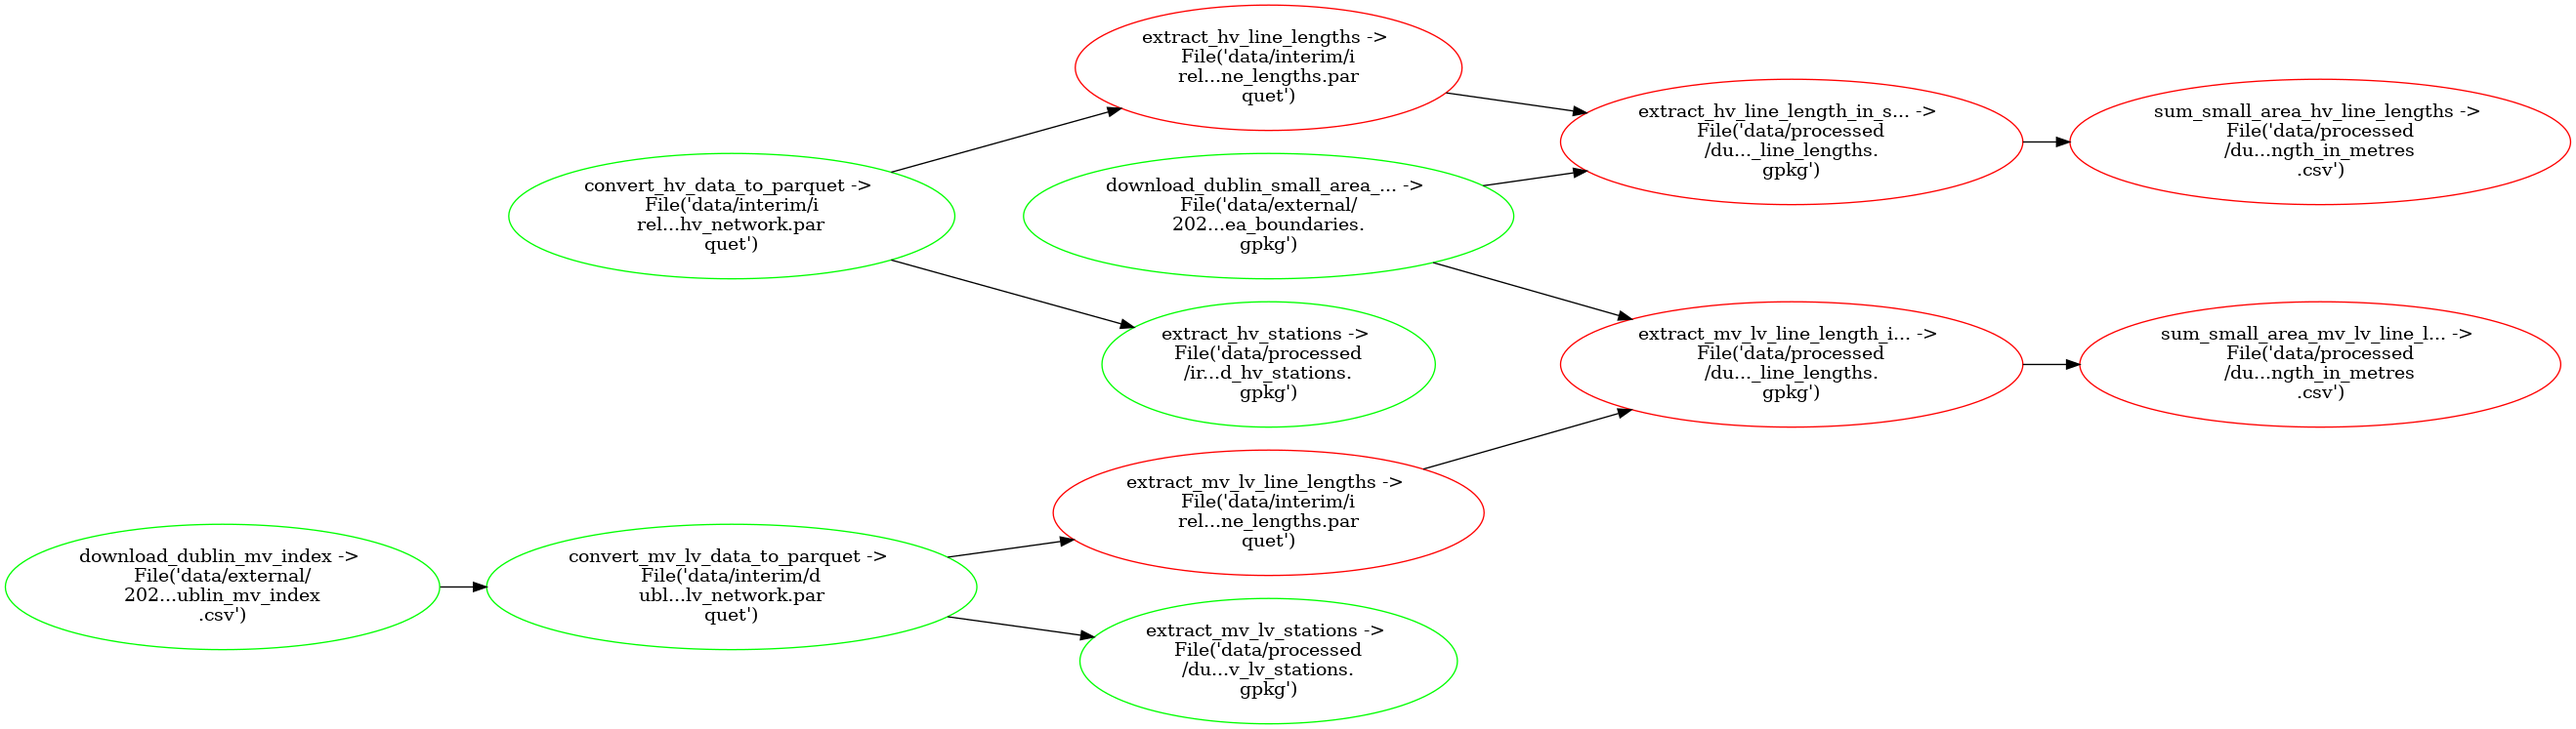
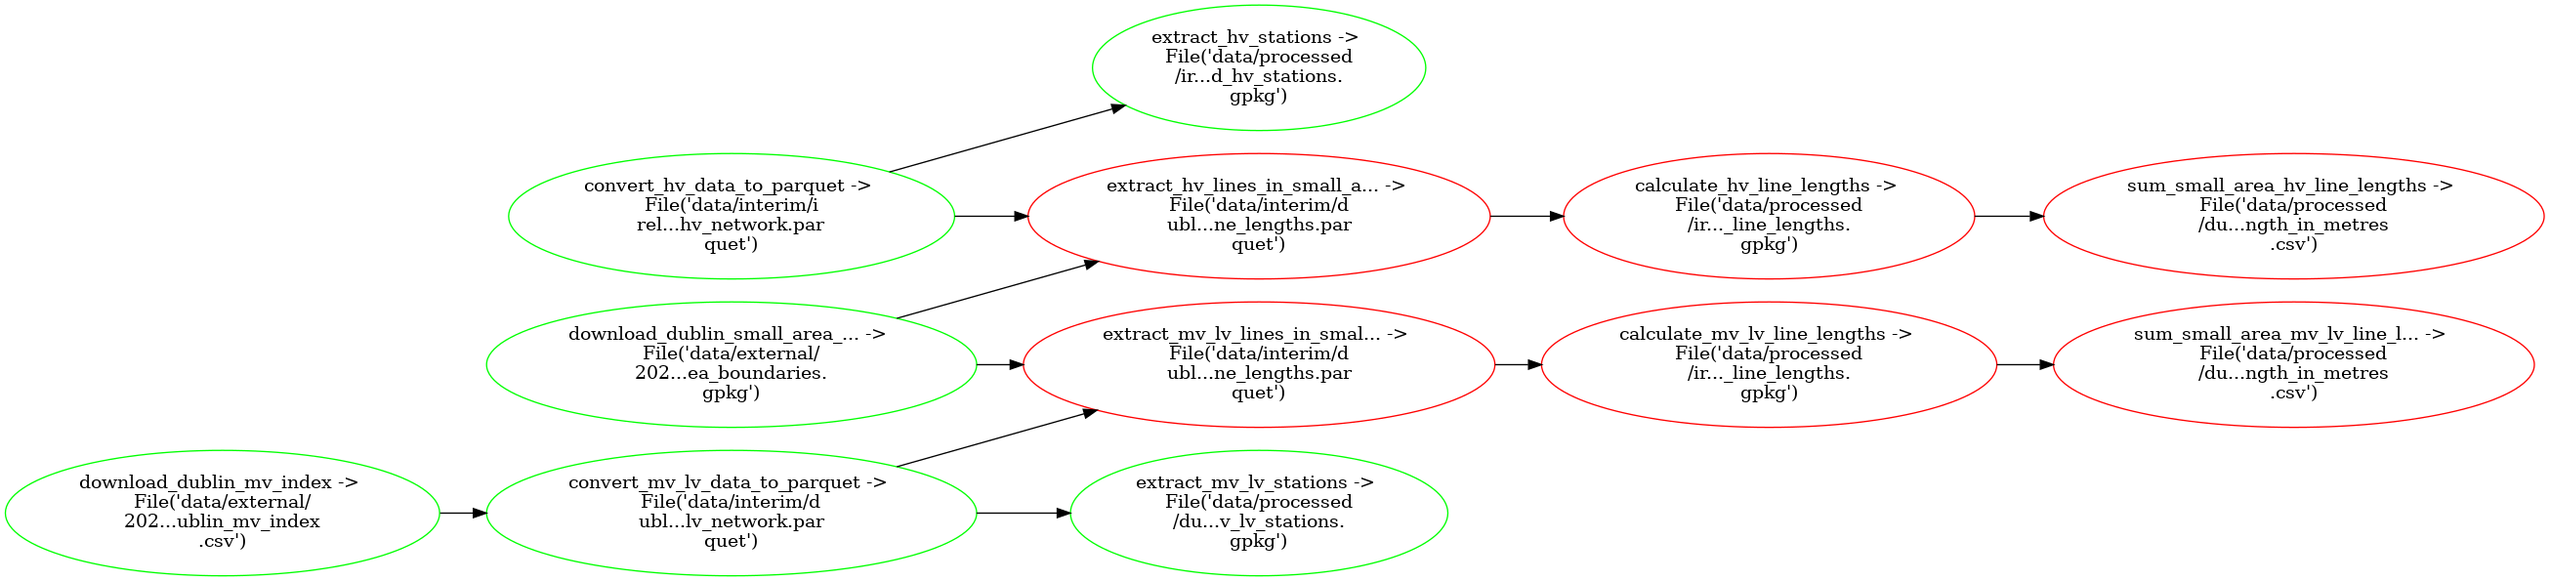
Extract lines in SA boundaries before line lengths
Not calculating line lengths on cut lines yields an
incorrect result!

diff --git a/extract-dublin-electricity-lines-and-substations-from-network/tasks.py b/extract-dublin-electricity-lines-and-substations-from-network/tasks.py
@@ -45,84 +45,66 @@ def extract_mv_lv_stations(
     stations.to_file(str(product), driver="GPKG")
 
 
-def _extract_line_lengths(
-    gdf: gpd.GeoDataFrame,
-    level_mappings: Dict[int, str],
-    columns: List[str],
-) -> None:
-    level_is_a_line = gdf["Level"].isin(level_mappings.keys())
-    lines = gdf[level_is_a_line]
-    line_lengths = pd.concat(
-        [lines[columns], lines.geometry.length.rename("line_length_m")], axis=1
-    )
-    line_lengths["Type"] = line_lengths["Level"].map(level_mappings)
-    return line_lengths
-
-
-def extract_hv_line_lengths(
+def extract_hv_lines_in_small_area_boundaries(
     product: Any,
     upstream: Any,
     level_mappings: Dict[int, str],
     columns: List[str],
 ) -> None:
-    hv_network = gpd.read_parquet(upstream["convert_hv_data_to_parquet"])
-    line_lengths = _extract_line_lengths(
-        hv_network, level_mappings=level_mappings, columns=columns
+    network = gpd.read_parquet(upstream["convert_hv_data_to_parquet"])
+    dublin_small_area_boundaries = gpd.read_file(
+        str(upstream["download_dublin_small_area_boundaries"])
     )
-    line_lengths.to_parquet(product)
+
+    level_is_a_line = network["Level"].isin(level_mappings.keys())
+    lines = network.loc[level_is_a_line, columns].copy()
+    lines["Type"] = lines["Level"].map(level_mappings)
+    lines_in_boundaries = gpd.overlay(
+        lines,
+        dublin_small_area_boundaries[["small_area", "geometry"]],
+        "intersection",
+    )
+
+    lines_in_boundaries.to_parquet(product)
 
 
-def extract_mv_lv_line_lengths(
+def extract_mv_lv_lines_in_small_area_boundaries(
     product: Any,
     upstream: Any,
-    level_mappings: Dict[str, str],
+    level_mappings: Dict[int, str],
     columns: List[str],
 ) -> None:
-    hv_network = gpd.read_parquet(upstream["convert_mv_lv_data_to_parquet"])
-    line_lengths = _extract_line_lengths(
-        hv_network, level_mappings=level_mappings, columns=columns
-    )
-    line_lengths.to_parquet(product)
-
-
-def extract_hv_line_length_in_small_area_boundaries(
-    product: Any, upstream: Any
-) -> None:
-    hv_line_lengths = gpd.read_parquet(upstream["extract_hv_line_lengths"])
+    network = gpd.read_parquet(upstream["convert_mv_lv_data_to_parquet"])
     dublin_small_area_boundaries = gpd.read_file(
         str(upstream["download_dublin_small_area_boundaries"])
     )
 
+    level_is_a_line = network["Level"].isin(level_mappings.keys())
+    lines = network.loc[level_is_a_line, columns].copy()
+    lines["Type"] = lines["Level"].map(level_mappings)
     lines_in_boundaries = gpd.overlay(
-        hv_line_lengths,
+        lines,
         dublin_small_area_boundaries[["small_area", "geometry"]],
         "intersection",
     )
 
-    lines_in_boundaries.to_file(str(product), driver="GPKG")
+    lines_in_boundaries.to_parquet(product)
 
 
-def extract_mv_lv_line_length_in_small_area_boundaries(
-    product: Any, upstream: Any
-) -> None:
-    mv_lv_line_lengths = gpd.read_parquet(upstream["extract_mv_lv_line_lengths"])
-    dublin_small_area_boundaries = gpd.read_file(
-        str(upstream["download_dublin_small_area_boundaries"])
-    )
+def calculate_hv_line_lengths(product: Any, upstream: Any) -> None:
+    lines = gpd.read_parquet(upstream["extract_hv_lines_in_small_area_boundaries"])
+    lines["line_length_m"] = lines.geometry.length
+    lines.to_file(str(product), driver="GPKG")
 
-    lines_in_boundaries = gpd.overlay(
-        mv_lv_line_lengths,
-        dublin_small_area_boundaries[["small_area", "geometry"]],
-        "intersection",
-    )
 
-    lines_in_boundaries.to_file(str(product), driver="GPKG")
+def calculate_mv_lv_line_lengths(product: Any, upstream: Any) -> None:
+    lines = gpd.read_parquet(upstream["extract_mv_lv_lines_in_small_area_boundaries"])
+    lines["line_length_m"] = lines.geometry.length
+    lines.to_file(str(product), driver="GPKG")
 
 
 def sum_small_area_mv_lv_line_lengths(product: Any, upstream: Any) -> None:
-    line_lengths = gpd.read_file(
-        str(upstream["extract_mv_lv_line_length_in_small_area_boundaries"])
-    )
+    line_lengths = gpd.read_file(str(upstream["calculate_mv_lv_line_lengths"]))
 
     line_length_totals = (
         line_lengths.groupby(["small_area", "Type"])["line_length_m"]
@@ -135,9 +117,7 @@ def sum_small_area_mv_lv_line_lengths(product: Any, upstream: Any) -> None:
 
 
 def sum_small_area_hv_line_lengths(product: Any, upstream: Any) -> None:
-    line_lengths = gpd.read_file(
-        str(upstream["extract_hv_line_length_in_small_area_boundaries"])
-    )
+    line_lengths = gpd.read_file(str(upstream["calculate_hv_line_lengths"]))
 
     line_length_totals = (
         line_lengths.groupby(["small_area", "Type"])["line_length_m"]
